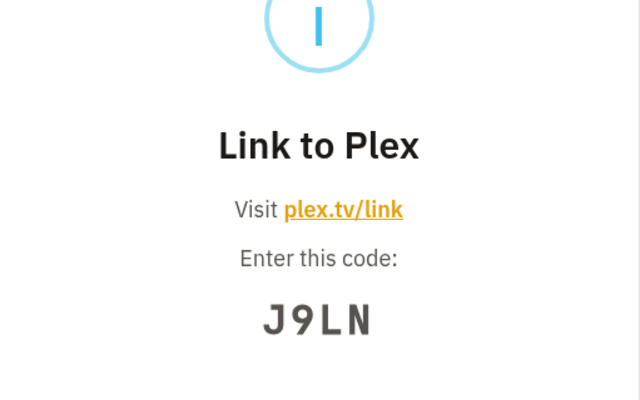
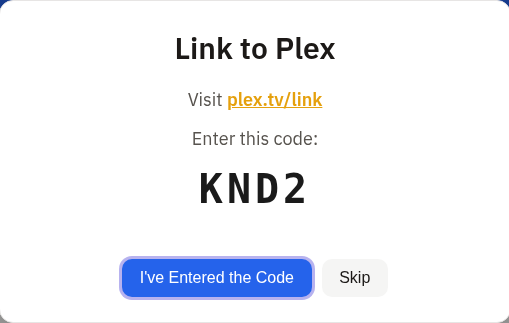
website updates

diff --git a/website/index.html b/website/index.html
@@ -138,7 +138,7 @@
       <div class="features-grid">
         <div class="feature-card">
           <div class="feature-img">
-            <img src="img/devices02.png" alt="Device Discovery">
+            <img src="img/devices03.png" alt="Device Discovery">
           </div>
           <h3>🔊 DLNA Discovery</h3>
           <p>Automatically finds all DLNA/UPnP speakers, receivers, and smart TVs on your network.</p>
@@ -173,23 +173,23 @@
     <div class="container">
       <h2>See It In Action</h2>
       <div class="gallery-grid">
-        <div class="gallery-item" data-caption="Dashboard">
-          <div class="placeholder" data-label="Dashboard"></div>
+        <div class="gallery-item" data-caption="DLNA Device Dashboard">
+          <img src="img/devices03.png" alt="DLNA Device Dashboard">
         </div>
-        <div class="gallery-item" data-caption="Device Discovery">
-          <div class="placeholder" data-label="Device Discovery"></div>
+        <div class="gallery-item" data-caption="Multi-Room Device Groups">
+          <img src="img/groups.png" alt="Multi-Room Device Groups">
         </div>
         <div class="gallery-item" data-caption="Plexamp Casting">
-          <div class="placeholder" data-label="Plexamp Casting"></div>
+          <img src="img/playback.png" alt="Plexamp Casting">
         </div>
-        <div class="gallery-item" data-caption="Multi-Room Groups">
-          <div class="placeholder" data-label="Multi-Room Groups"></div>
+        <div class="gallery-item" data-caption="Plex Integration">
+          <img src="img/plex-integration.png" alt="Plex Integration">
         </div>
-        <div class="gallery-item" data-caption="Theme Preview">
-          <div class="placeholder" data-label="Theme Preview"></div>
+        <div class="gallery-item" data-caption="Transcoding">
+          <img src="img/transcoding.png" alt="Transcoding">
         </div>
-        <div class="gallery-item" data-caption="Settings">
-          <div class="placeholder" data-label="Settings"></div>
+        <div class="gallery-item" data-caption="Plex Connection">
+          <img src="img/plex-connected.png" alt="Plex Connection">
         </div>
       </div>
       <p class="gallery-hint">Click any image to enlarge</p>
@@ -278,7 +278,7 @@ docker compose up -d
     <button class="lightbox-prev" aria-label="Previous">&#10094;</button>
     <button class="lightbox-next" aria-label="Next">&#10095;</button>
     <div class="lightbox-content">
-      <div class="placeholder lightbox-placeholder" data-label=""></div>
+      <img class="lightbox-image" src="" alt="">
     </div>
     <p class="lightbox-caption"></p>
   </div>

diff --git a/website/js/main.js b/website/js/main.js
@@ -82,7 +82,7 @@ document.addEventListener('DOMContentLoaded', () => {
   // Lightbox
   // ========================================
   const lightbox = document.getElementById('lightbox');
-  const lightboxPlaceholder = lightbox?.querySelector('.lightbox-placeholder');
+  const lightboxImage = lightbox?.querySelector('.lightbox-image');
   const lightboxCaption = lightbox?.querySelector('.lightbox-caption');
   const lightboxClose = lightbox?.querySelector('.lightbox-close');
   const lightboxPrev = lightbox?.querySelector('.lightbox-prev');
@@ -94,11 +94,13 @@ document.addEventListener('DOMContentLoaded', () => {
     if (!lightbox || galleryItems.length === 0) return;
     currentLightboxIndex = index;
     const item = galleryItems[index];
+    const img = item.querySelector('img');
     const caption = item.dataset.caption || '';
     
-    // Update placeholder label
-    if (lightboxPlaceholder) {
-      lightboxPlaceholder.dataset.label = caption;
+    // Update lightbox image
+    if (lightboxImage && img) {
+      lightboxImage.src = img.src;
+      lightboxImage.alt = caption;
     }
     if (lightboxCaption) {
       lightboxCaption.textContent = caption;

diff --git a/website/css/style.css b/website/css/style.css
@@ -723,12 +723,12 @@ img {
   max-height: 80vh;
 }
 
-.lightbox-content img,
-.lightbox-placeholder {
+.lightbox-image {
   max-width: 100%;
   max-height: 80vh;
-  width: 800px;
+  width: auto;
   border-radius: 8px;
+  object-fit: contain;
 }
 
 .lightbox-caption {
